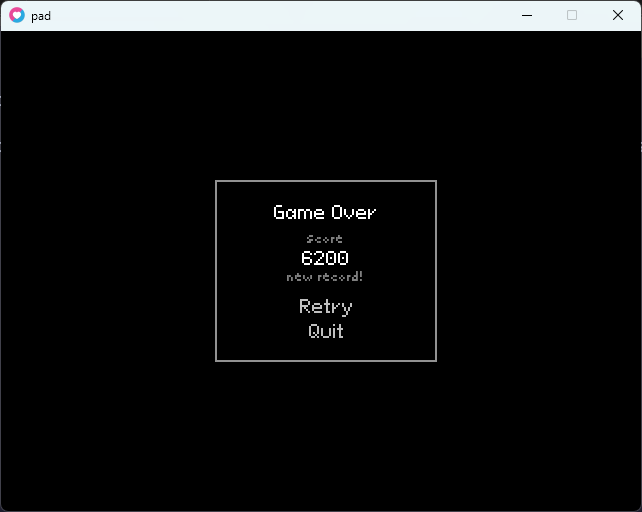
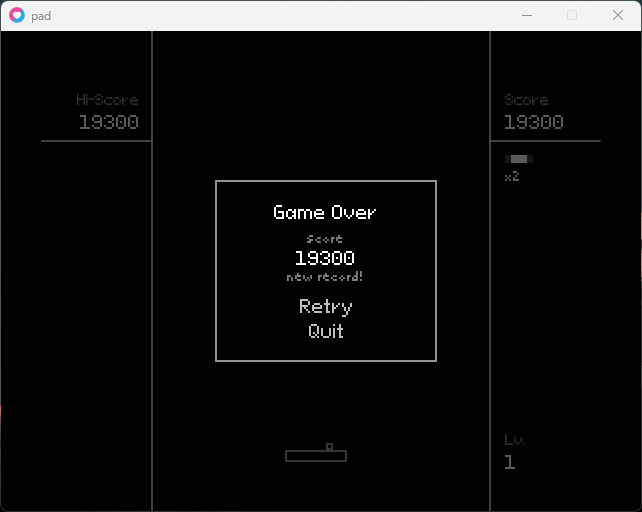
add partial pause menu
change fail menu to popup

diff --git a/README.md b/README.md
@@ -12,6 +12,7 @@ Very incomplete.
 
 * A/D: Move paddle
 * F4: Open debug menu
+* P: Pause game (doesn't pause game yet)
 * F (for testing): Trigger game over scene
 * Space (for testing): Add 100 points to score
 * Down arrow (for testing): Reduce lifes by 1
